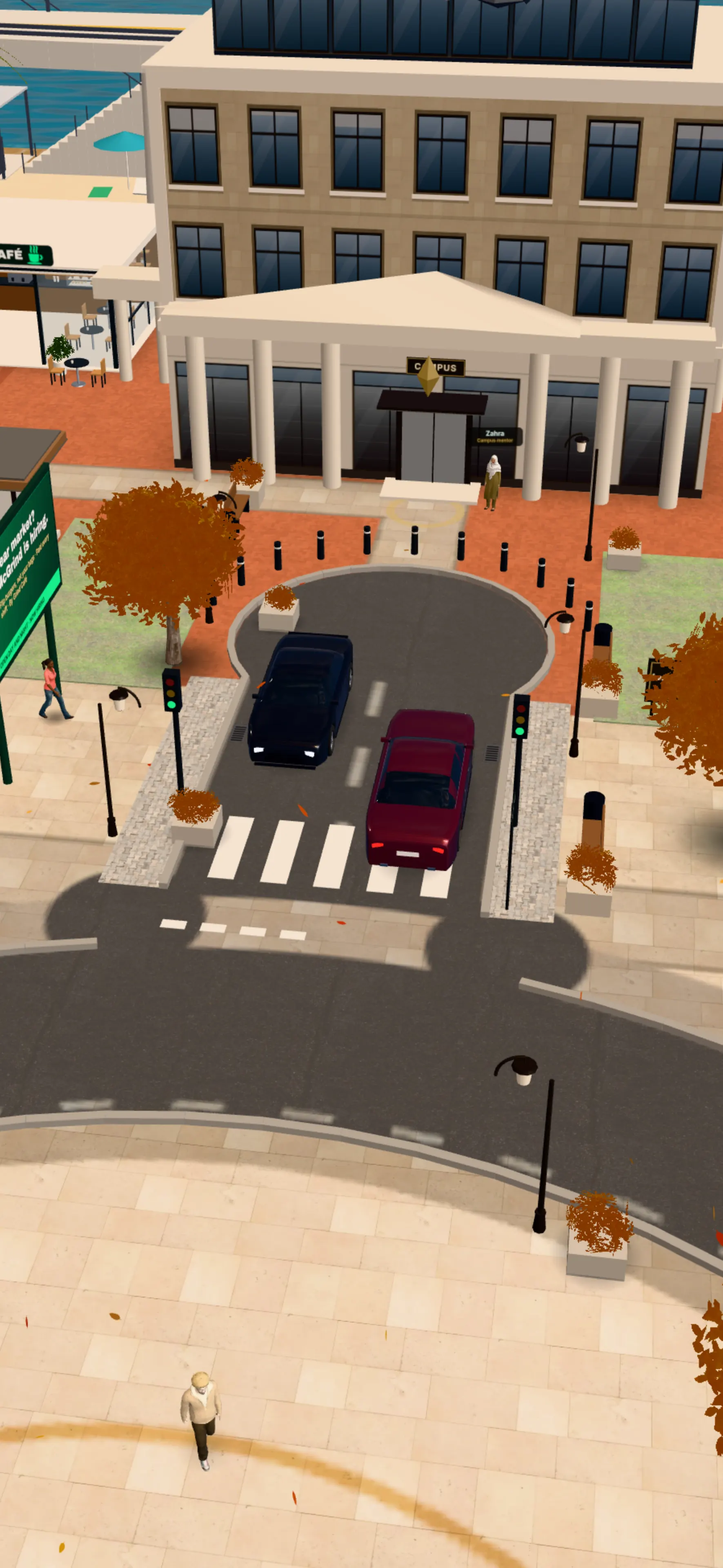
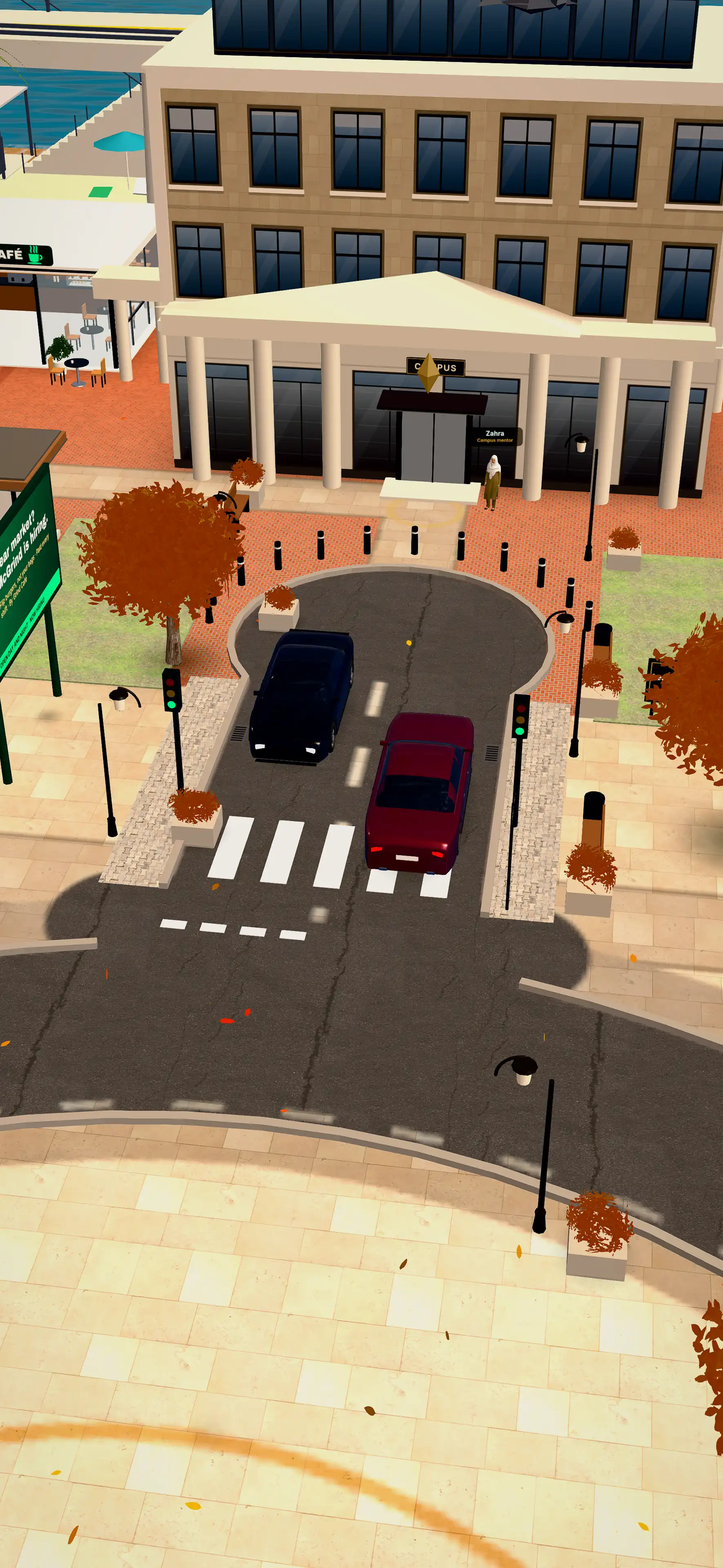
Roads: restore original asphalt and recut driveway joins; start card wording
The grey slabs below the zebra were leftover footway paving painted through the arm mouths. Recut all four joins so the driveway meets the ring as asphalt. Put the original road texture back. Title stills match the fix. Start card now reads as two sentences, with no em dash.

diff --git a/src/world.ts b/src/world.ts
@@ -790,10 +790,29 @@ export function createWorld(options: {
       g.beginPath(); g.arc(mid, mid, (RING_OUT + 1.6) * scale, 0, Math.PI * 2); g.fill()
       g.fillStyle = ASPHALT
       g.beginPath(); g.arc(mid, mid, RING_OUT * scale, 0, Math.PI * 2); g.fill()
+      // Recut each arm through the footway so the driveway is asphalt where it meets the ring,
+      // not a leftover band of paving. All four mouths share this join.
+      fillRect({ x: 0, z: 0, hx: RING_OUT + 1.8, hz: ROAD_HALF })
+      fillRect({ x: 0, z: 0, hx: ROAD_HALF, hz: RING_OUT + 1.8 })
       for (const [dx, dz] of [[1, 0], [-1, 0], [0, 1], [0, -1]] as const) for (const sgn of [-1, 1]) {
         const cx = dx * (RING_OUT + 0.6) + (dx ? 0 : sgn * (ROAD_HALF + 0.6)), cz = dz * (RING_OUT + 0.6) + (dz ? 0 : sgn * (ROAD_HALF + 0.6))
         g.beginPath(); g.arc(mid + cx * scale, mid + cz * scale, 1.6 * scale, 0, Math.PI * 2); g.fill()
       }
+      // Arm centre dashes sit on the recut mouths (the footway ring had covered the earlier stroke).
+      g.strokeStyle = 'rgba(230, 236, 232, 0.5)'
+      g.lineWidth = 3
+      g.setLineDash([18, 16])
+      g.beginPath()
+      g.moveTo(mid - (TURN_C - 2) * scale, mid)
+      g.lineTo(mid - (RING_OUT + 1) * scale, mid)
+      g.moveTo(mid + (RING_OUT + 1) * scale, mid)
+      g.lineTo(mid + (TURN_C - 2) * scale, mid)
+      g.moveTo(mid, mid - (TURN_C - 2) * scale)
+      g.lineTo(mid, mid - (RING_OUT + 1) * scale)
+      g.moveTo(mid, mid + (RING_OUT + 1) * scale)
+      g.lineTo(mid, mid + (TURN_C - 2) * scale)
+      g.stroke()
+      g.setLineDash([])
       g.strokeStyle = 'rgba(230, 236, 232, 0.45)'
       g.lineWidth = 2
       g.setLineDash([10, 12])

diff --git a/src/groundDetail.ts b/src/groundDetail.ts
@@ -38,8 +38,8 @@ export function groundDetail(mat: THREE.MeshStandardMaterial, anisotropy: number
         float turf = smoothstep(0.012, 0.05, base.g - max(base.r, base.b));
         float road = (1.0 - smoothstep(0.085, 0.15, dot(base, vec3(0.299, 0.587, 0.114)))) * (1.0 - turf);
         vec3 pave = texture2D(tPave, vGroundXZ / 3.2).rgb * ${inv(MEAN.pave)};
-        // The asphalt photo is flattened and mixed lightly: grain stays, cracks and oil stains do not blotch the roads.
-        vec3 tar = mix(vec3(1.0), texture2D(tRoad, vGroundXZ / 5.0).rgb * ${inv(MEAN.road)}, 0.4);
+        // The asphalt photo at half strength: its grain stays, its dark stains no longer blotch the roads.
+        vec3 tar = mix(vec3(1.0), texture2D(tRoad, vGroundXZ / 5.0).rgb * ${inv(MEAN.road)}, 0.5);
         vec3 grass = texture2D(tTurf, vGroundXZ / 3.6).rgb * ${inv(MEAN.turf)};
         vec3 laid = base * mix(mix(pave, tar, road), grass, turf);
         // Interlock: ground painted a terracotta hue (red well above green, whatever its shading) is laid as

diff --git a/index.html b/index.html
@@ -161,7 +161,7 @@
           <img class="panel-logo" src="/brand/logo-new.webp" width="733" height="453" alt="Grind District" />
           <p class="title-headline">Walk out with a CV, Resume and Portfolio.</p>
           <p class="title-desc">Live a Web3 life. Build proof that travels with you.</p>
-          <p class="title-calm">Top up for extras if you want — lessons and certificates are always free. This is not a money-making game.</p>
+          <p class="title-calm">Top up for extras if you want. Lessons and certificates are always free. This is not a money-making game.</p>
           <nav class="menu-actions" aria-label="Game menu">
             <button id="menu-create" type="button" class="glass-btn primary" autofocus>Sign up</button>
             <button id="menu-signin" type="button" class="glass-btn">Sign in</button>
